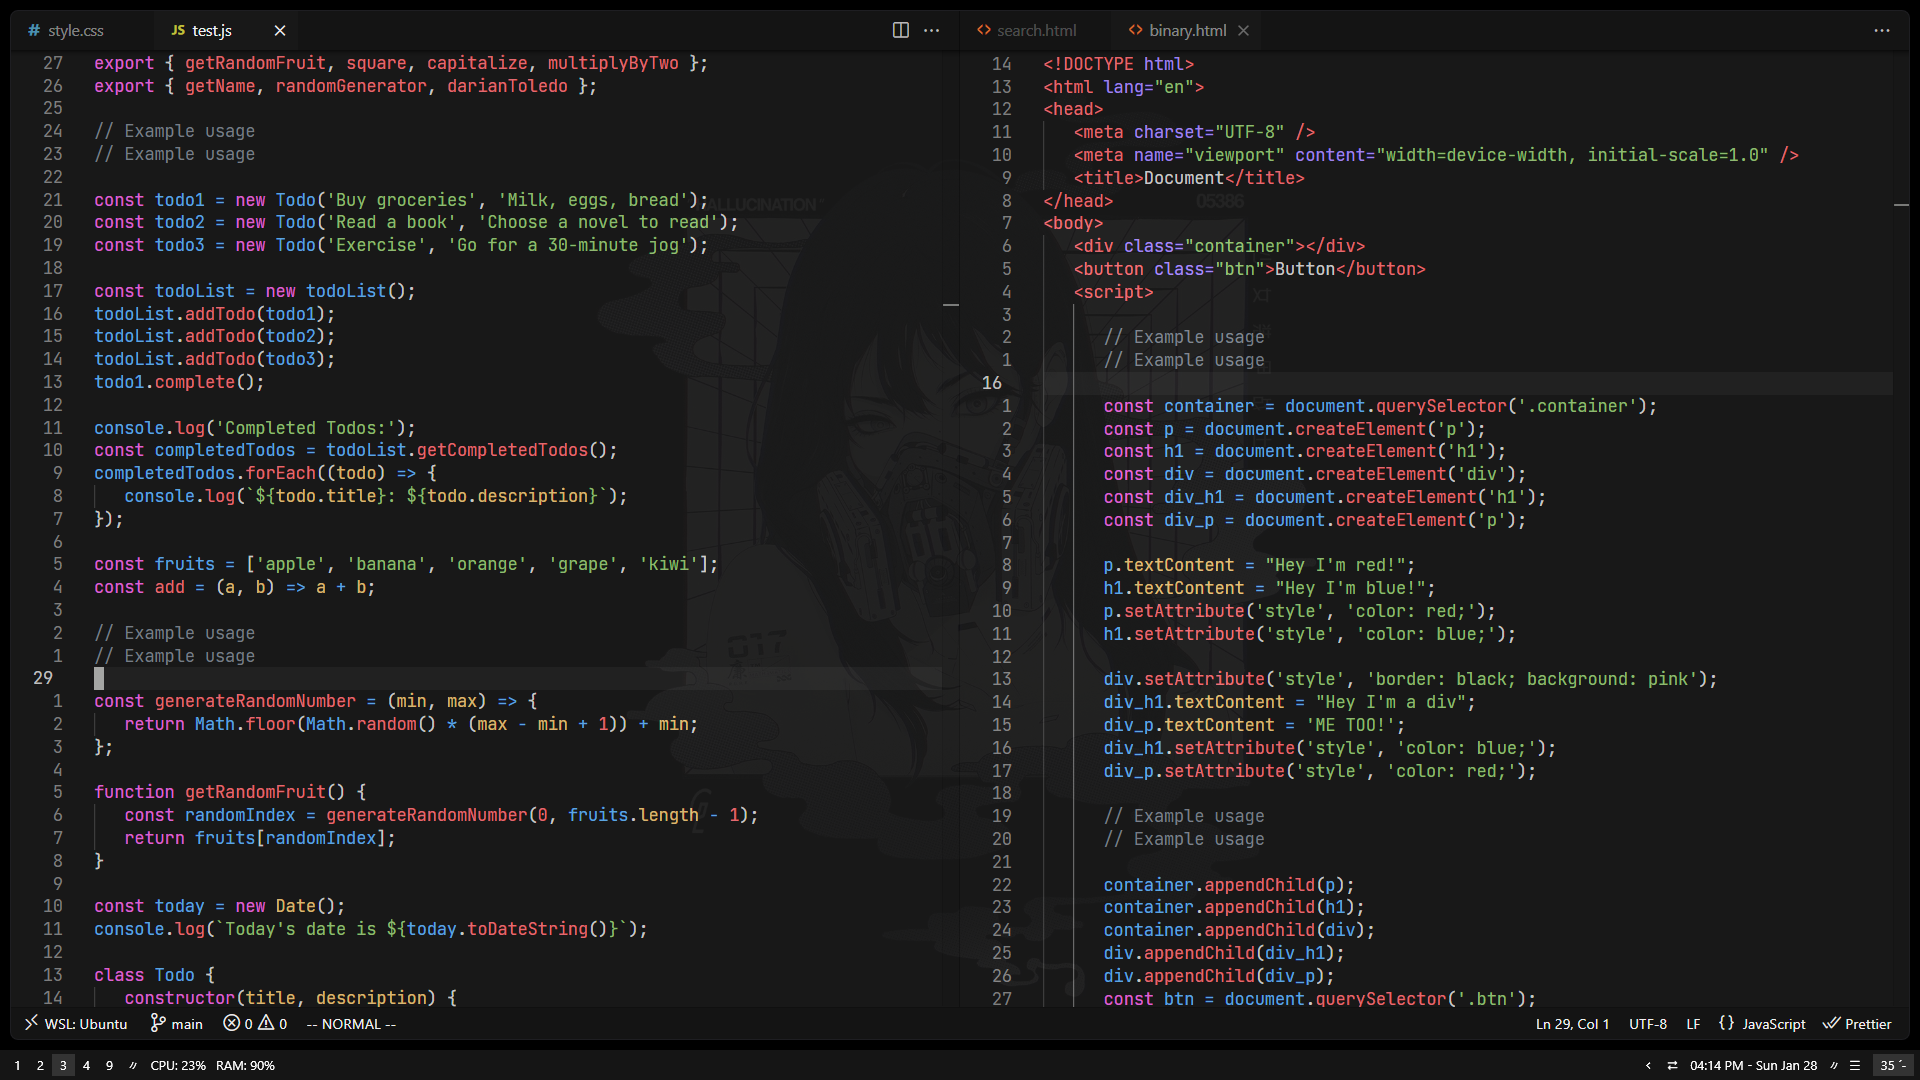
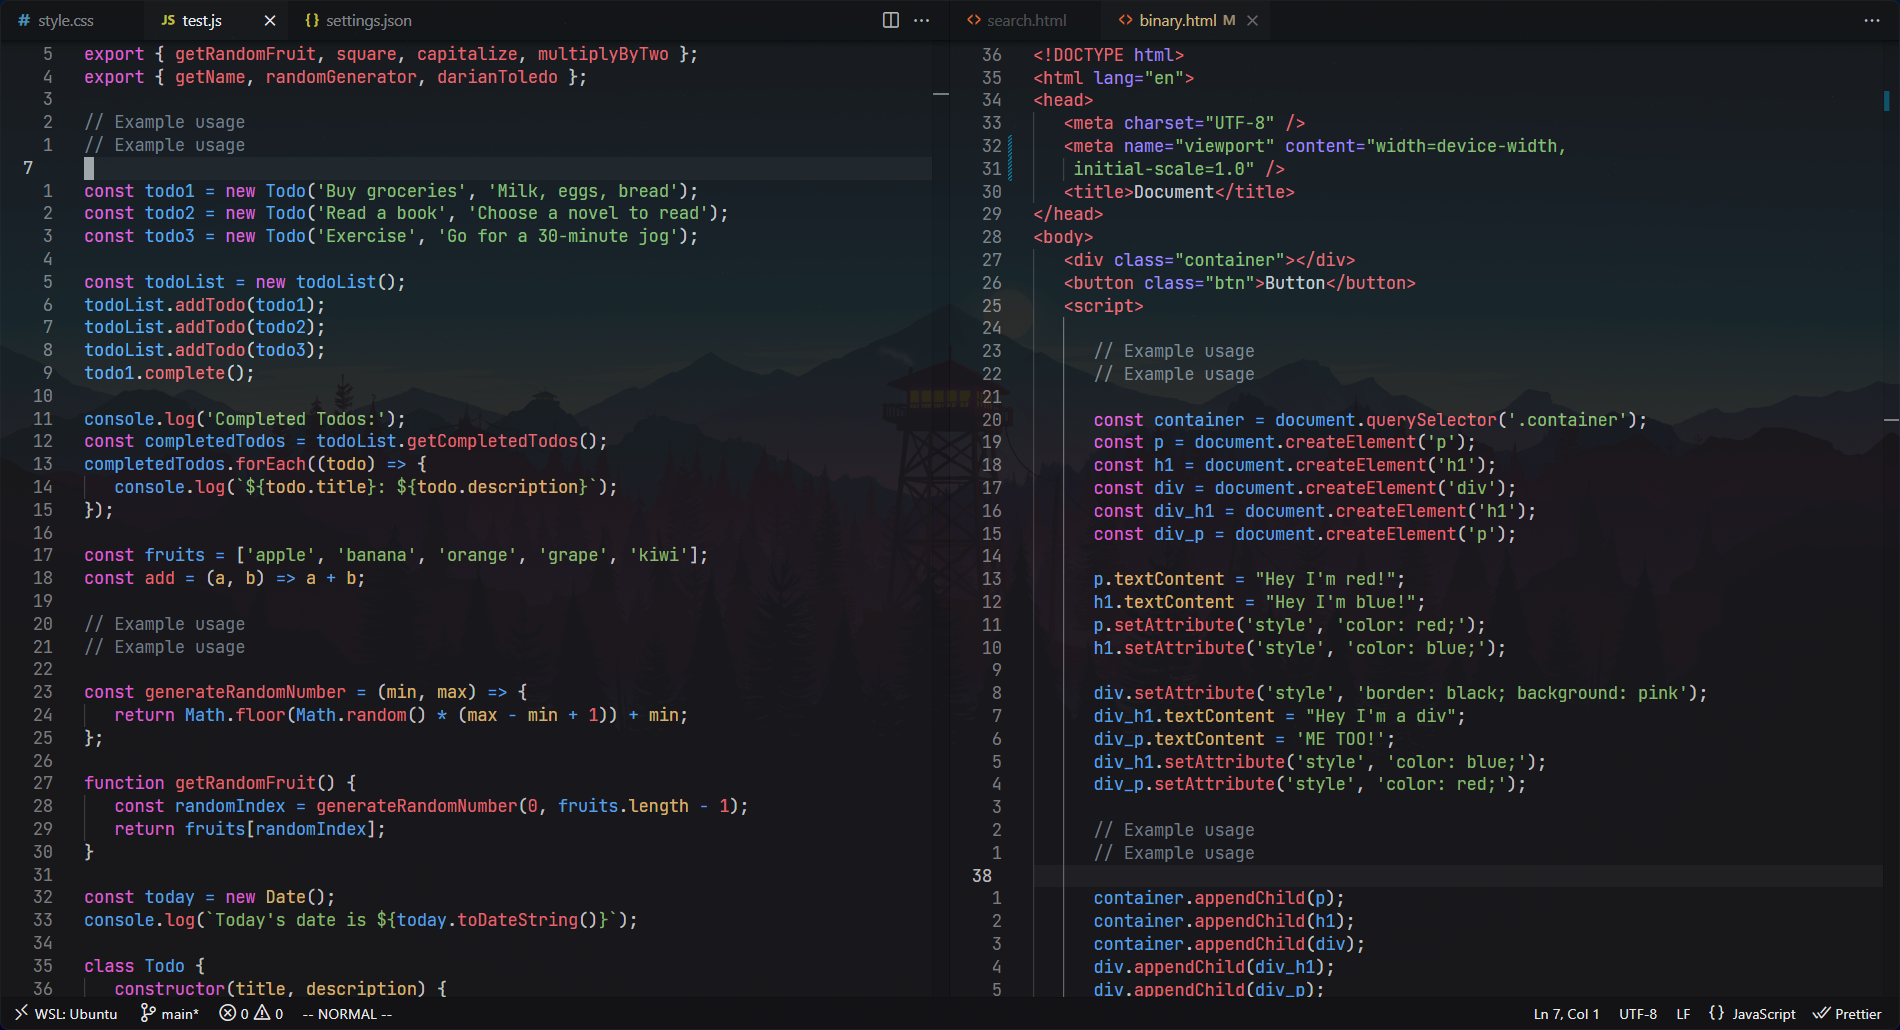
Update images & README.md

Changed region(s): [[0.0, 0.0, 1.0, 1.0], [0.3416, 0.4971, 0.3726, 0.5592]]

diff --git a/README.md b/README.md
@@ -9,8 +9,8 @@ You can install this theme through the [Visual Studio Marketplace](https://marke
 1. Open **Extensions** sidebar panel in VS Code. `View → Extensions`
 2. Search for `Darian Theme`
 3. Click **Install**
-5. _File > Preferences > Settings > Workbench > Color Theme >_ **Darian Theme**
-6. That's it...
+4. _File > Preferences > Settings > Workbench > Color Theme >_ **Darian Theme**
+5. That's it...
 
 &nbsp;
 
@@ -38,11 +38,11 @@ You can install this theme through the [Visual Studio Marketplace](https://marke
 
 ---
 
-You can also add transparency to your theme with [Glasslt-VSC](https://marketplace.visualstudio.com/items?itemName=s-nlf-fh.glassit)
+You can also improve your **vscode setup** with two amazing extensions, [Glasslt-VSC](https://marketplace.visualstudio.com/items?itemName=s-nlf-fh.glassit) & [Apc Customize UI++](https://marketplace.visualstudio.com/items?itemName=drcika.apc-extension)
 
 1. Open **Extensions** sidebar panel in VS Code. `View → Extensions`
-2. Search for `Glasslt-VSC`
-3. Click **Install**
+2. Search for `Glasslt-VSC` & `Apc Customize UI++`
+3. Click **Install** on both of them
 4. Modify to preference
 
 &nbsp;
@@ -52,7 +52,25 @@ You can also add transparency to your theme with [Glasslt-VSC](https://marketpla
 ![Darian Theme - Modify](images/mtheme.png)
 &nbsp;
 
+```json
+   // settings.json
+
+   "glassit.alpha": 240,
+   "window.titleBarStyle": "native",
+   "apc.menubar.compact": true,
+   "apc.electron": {
+      "frame": false
+   },
+
+   "workbench.activityBar.location": "hidden",
+   "editor.minimap.enabled": false,
+   "breadcrumbs.enabled": false,
+
+```
+
 ---
 
 Theme created by <a href="https://github.com/darianmorat">Darian Toledo</a> ✨ <br />
 Enjoy it
+
+<!-- Add the screenshots as usual with vscode default after that u recommend the Glassit and APC++ for custom -->
